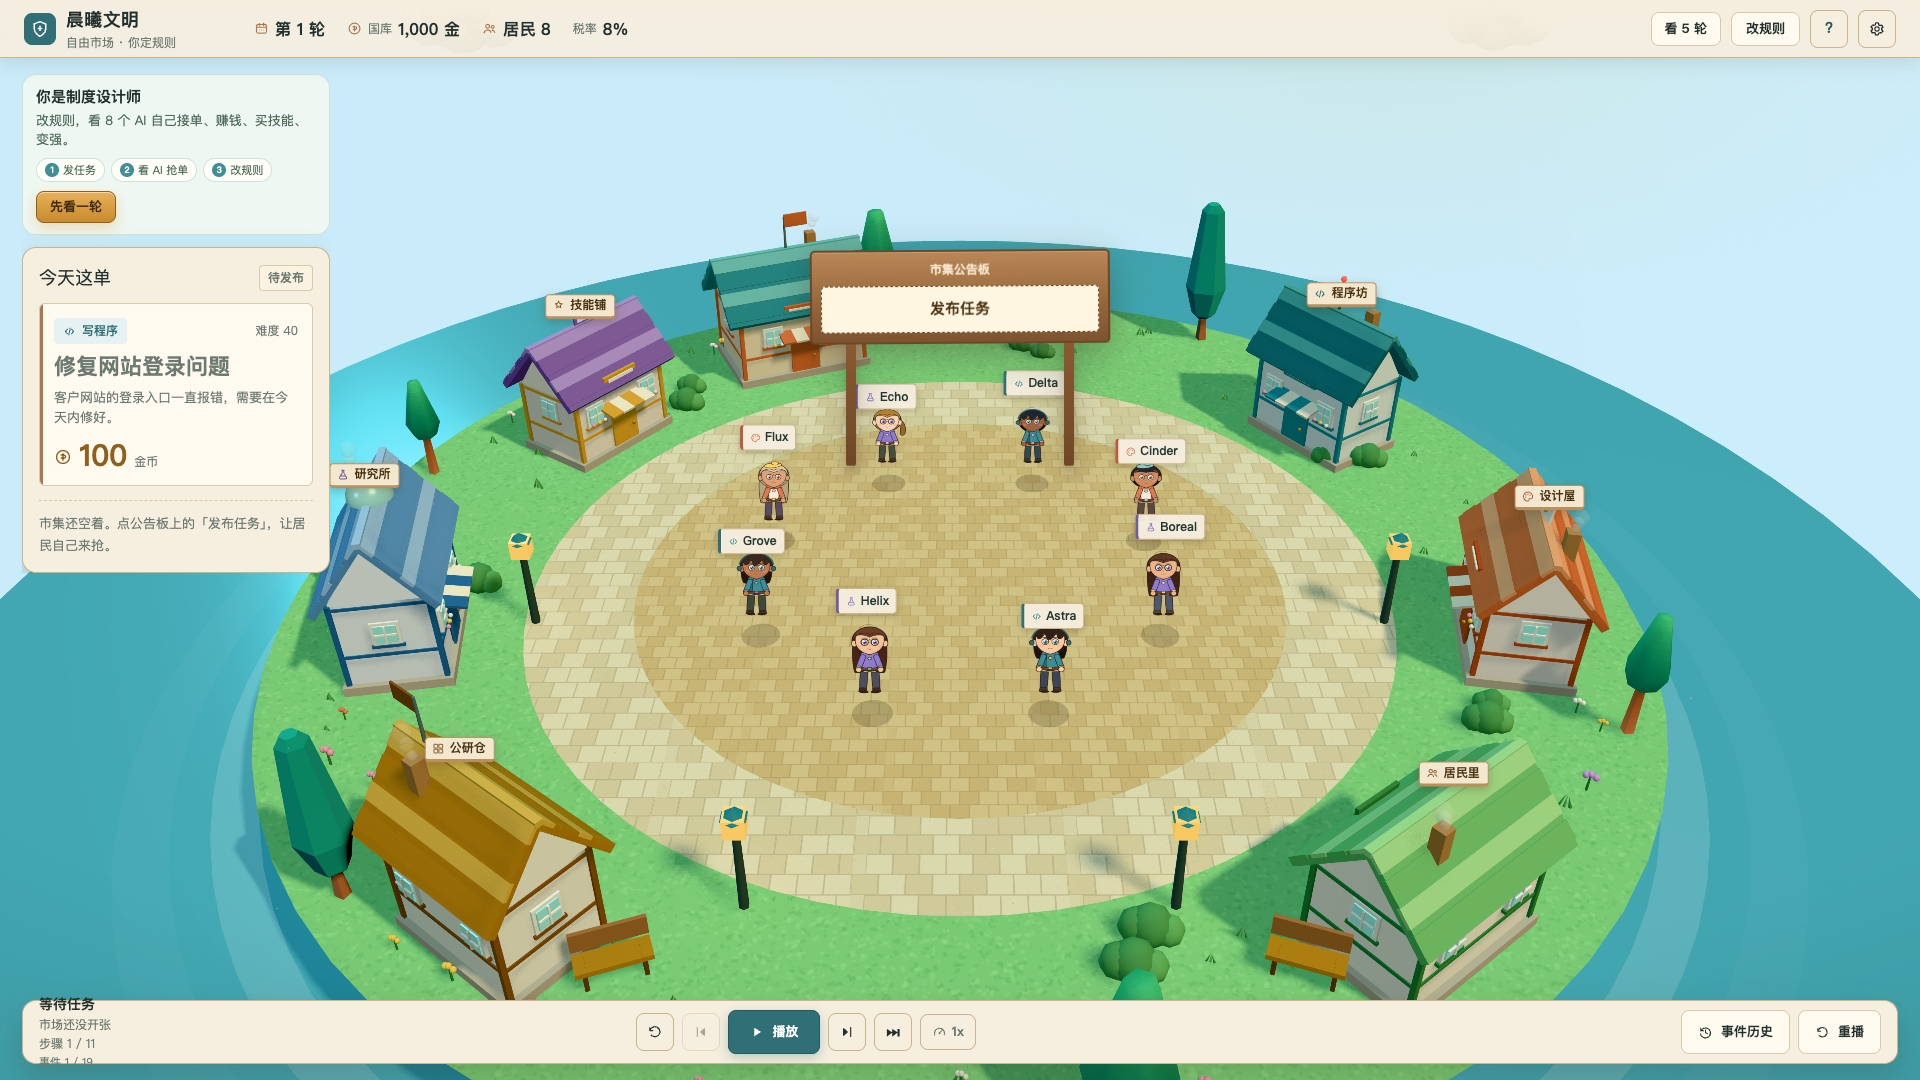
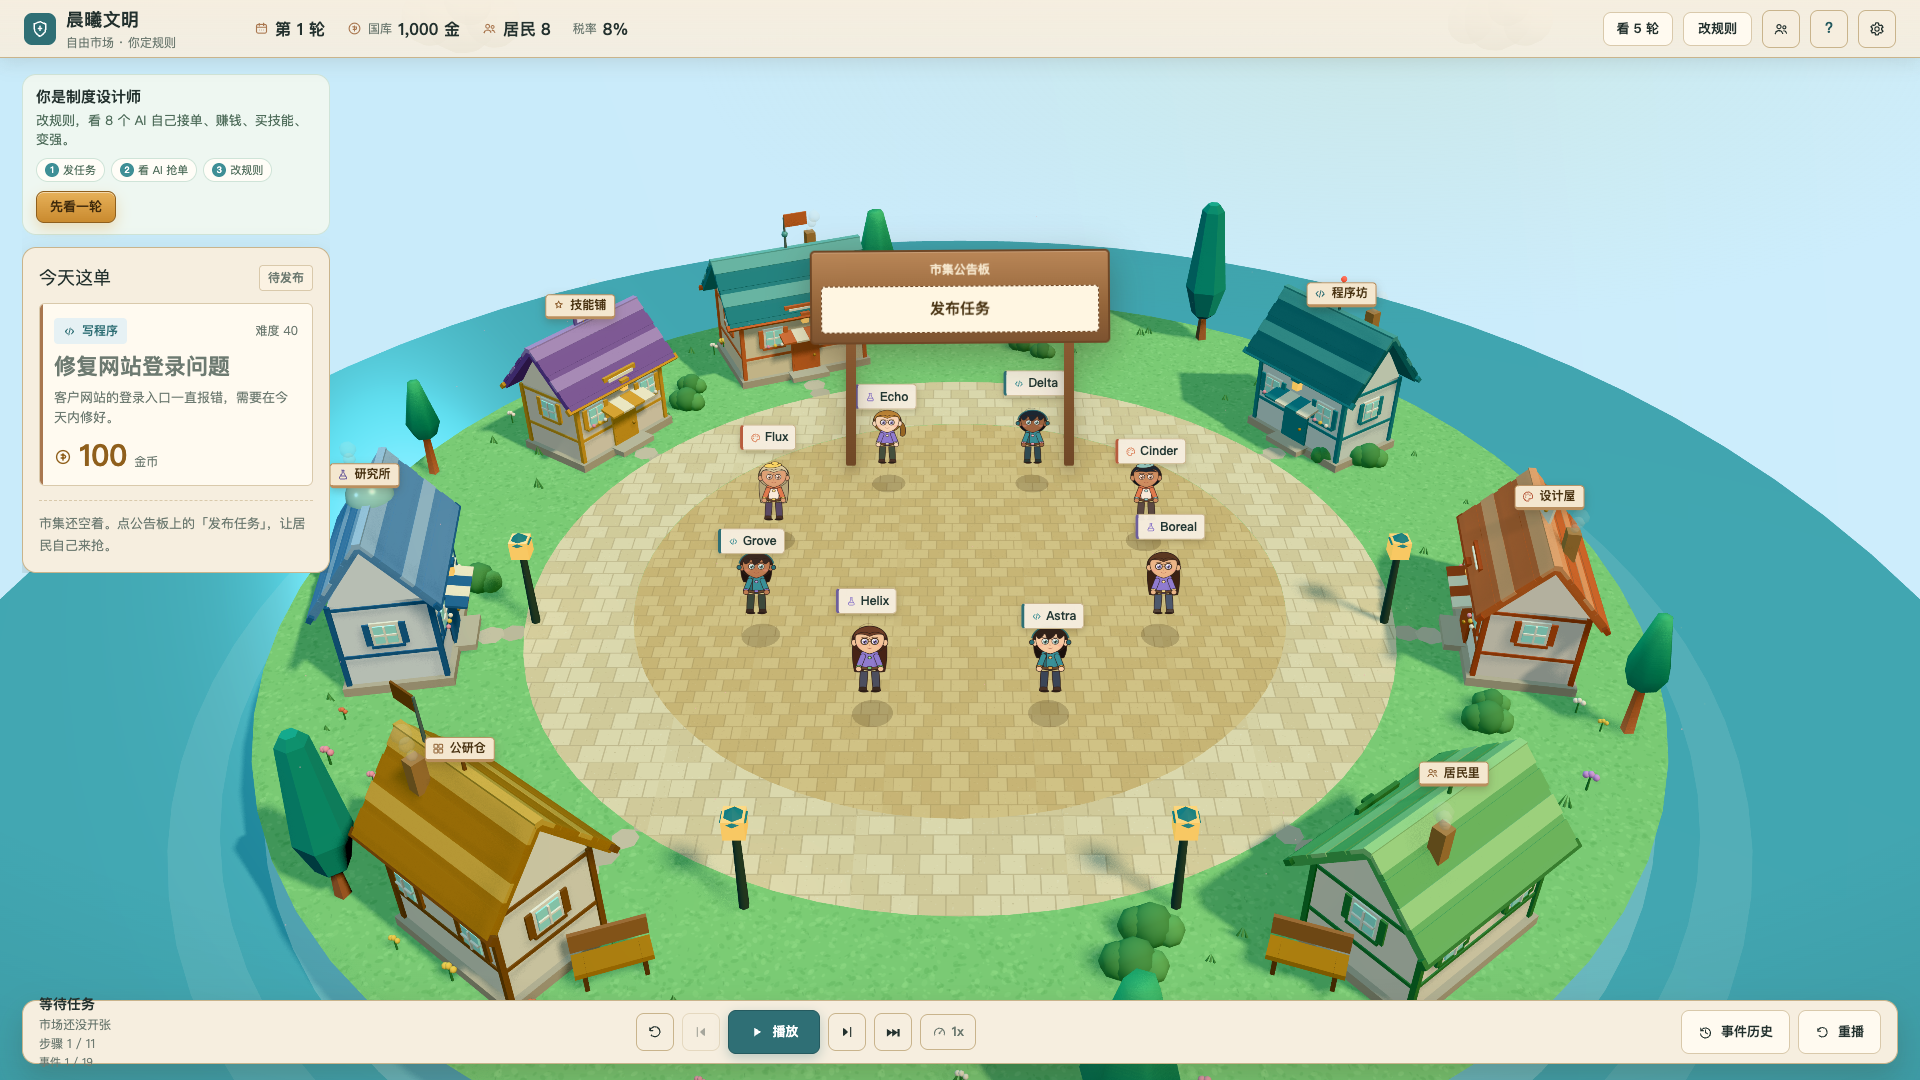
feat(visual): shutters, porch lamps, stone paths and roof trim
- window shutters and porch lanterns on every cottage
- stone door steps + paths to the plaza, eave trim and ridge finials
- refreshed overview screenshot; tests 31/31

diff --git a/packages/web/src/game/CozyBuilding.tsx b/packages/web/src/game/CozyBuilding.tsx
@@ -62,6 +62,12 @@ function Window({
       <Box size={[0.03, 0.32, 0.045]} position={[0, 0, 0.05]} color="#fbf5e8" />
       <Box size={[0.34, 0.03, 0.045]} position={[0, 0, 0.05]} color="#fbf5e8" />
       <Box size={[0.5, 0.05, 0.07]} position={[0, -0.24, 0]} color={trim} />
+      {[-0.27, 0.27].map((x) => (
+        <mesh key={x} castShadow position={[x, 0, 0.02]}>
+          <boxGeometry args={[0.1, 0.4, 0.035]} />
+          <meshStandardMaterial color={trim} roughness={0.82} />
+        </mesh>
+      ))}
       {withFlowers && (
         <group position={[0, -0.2, 0.09]}>
           {[-0.15, 0, 0.15].map((x, i) => (
@@ -132,6 +138,12 @@ export function CozyBuilding({ role, height, width }: { role: BuildingRole; heig
         <sphereGeometry args={[0.035, 6, 4]} />
         <meshStandardMaterial color="#e0a94f" metalness={0.5} roughness={0.3} />
       </mesh>
+      <Box size={[0.82, 0.11, 0.34]} position={[0, 0.12, frontZ + 0.18]} color="#c9bda8" />
+      <mesh position={[0, base + 1.28, frontZ + 0.12]}>
+        <boxGeometry args={[0.14, 0.2, 0.14]} />
+        <meshStandardMaterial color="#ffd98a" emissive="#e0a94f" emissiveIntensity={0.8} roughness={0.4} />
+      </mesh>
+      <Box size={[0.2, 0.06, 0.2]} position={[0, base + 1.4, frontZ + 0.12]} color={s.trim} />
       {/* awning */}
       <group position={[0, base + 0.92, frontZ + 0.15]} rotation={[0.22, 0, 0]}>
         {[-0.42, -0.14, 0.14, 0.42].map((x, i) => (
@@ -238,6 +250,32 @@ export function CozyBuilding({ role, height, width }: { role: BuildingRole; heig
           </mesh>
         </group>
       )}
+      {/* eave trim */}
+      {[-1, 1].map((side) => (
+        <Box
+          key={`eave-${side}`}
+          size={[w + 0.68, 0.08, 0.12]}
+          position={[0, wallTop + 0.02, side * halfD]}
+          color={s.trim}
+          rotation={[side * angle, 0, 0]}
+        />
+      ))}
+      {/* path stones */}
+      {[0, 1, 2, 3].map((i) => (
+        <mesh key={`path-${i}`} position={[0, 0.018, frontZ + 0.52 + i * 0.38]} rotation={[-Math.PI / 2, 0, i * 0.2]} receiveShadow>
+          <circleGeometry args={[0.24 - i * 0.018, 7]} />
+          <meshStandardMaterial color={i % 2 === 0 ? '#d3c6b0' : '#c9bda8'} roughness={0.95} />
+        </mesh>
+      ))}
+      {/* ridge finial */}
+      <mesh position={[0, peak + 0.2, 0]} castShadow>
+        <cylinderGeometry args={[0.018, 0.03, 0.35, 5]} />
+        <meshStandardMaterial color={s.trim} roughness={0.7} />
+      </mesh>
+      <mesh position={[0, peak + 0.38, 0]} castShadow>
+        <sphereGeometry args={[0.07, 8, 6]} />
+        <meshStandardMaterial color={s.roofAlt} roughness={0.4} metalness={0.2} />
+      </mesh>
       {/* chimney + smoke */}
       <Box size={[0.2, 0.5, 0.2]} position={[w * 0.25, peak - 0.08, -d * 0.22]} color="#b98d60" />
       {[0, 1, 2].map((i) => (

diff --git a/docs/VISUAL_REBUILD_2026-11-08.md b/docs/VISUAL_REBUILD_2026-11-08.md
@@ -15,7 +15,7 @@
 
 7 栋楼全部改为程序化 **CozyBuilding**：
 
-- 石基、灰泥墙、木梁、坡屋顶、分层瓦片、屋脊
+- 石基、灰泥墙、木梁、坡屋顶、分层瓦片、屋脊、屋檐封边、屋脊顶饰
 - 门、门廊条纹雨棚、窗户、窗框、花箱、招牌
 - 烟囱 + 烟雾
 - 角色专属屋顶装饰：程序坊天线、研究所玻璃穹顶、设计屋调色板、市集旗、技能铺发光牌、公研仓旗杆
